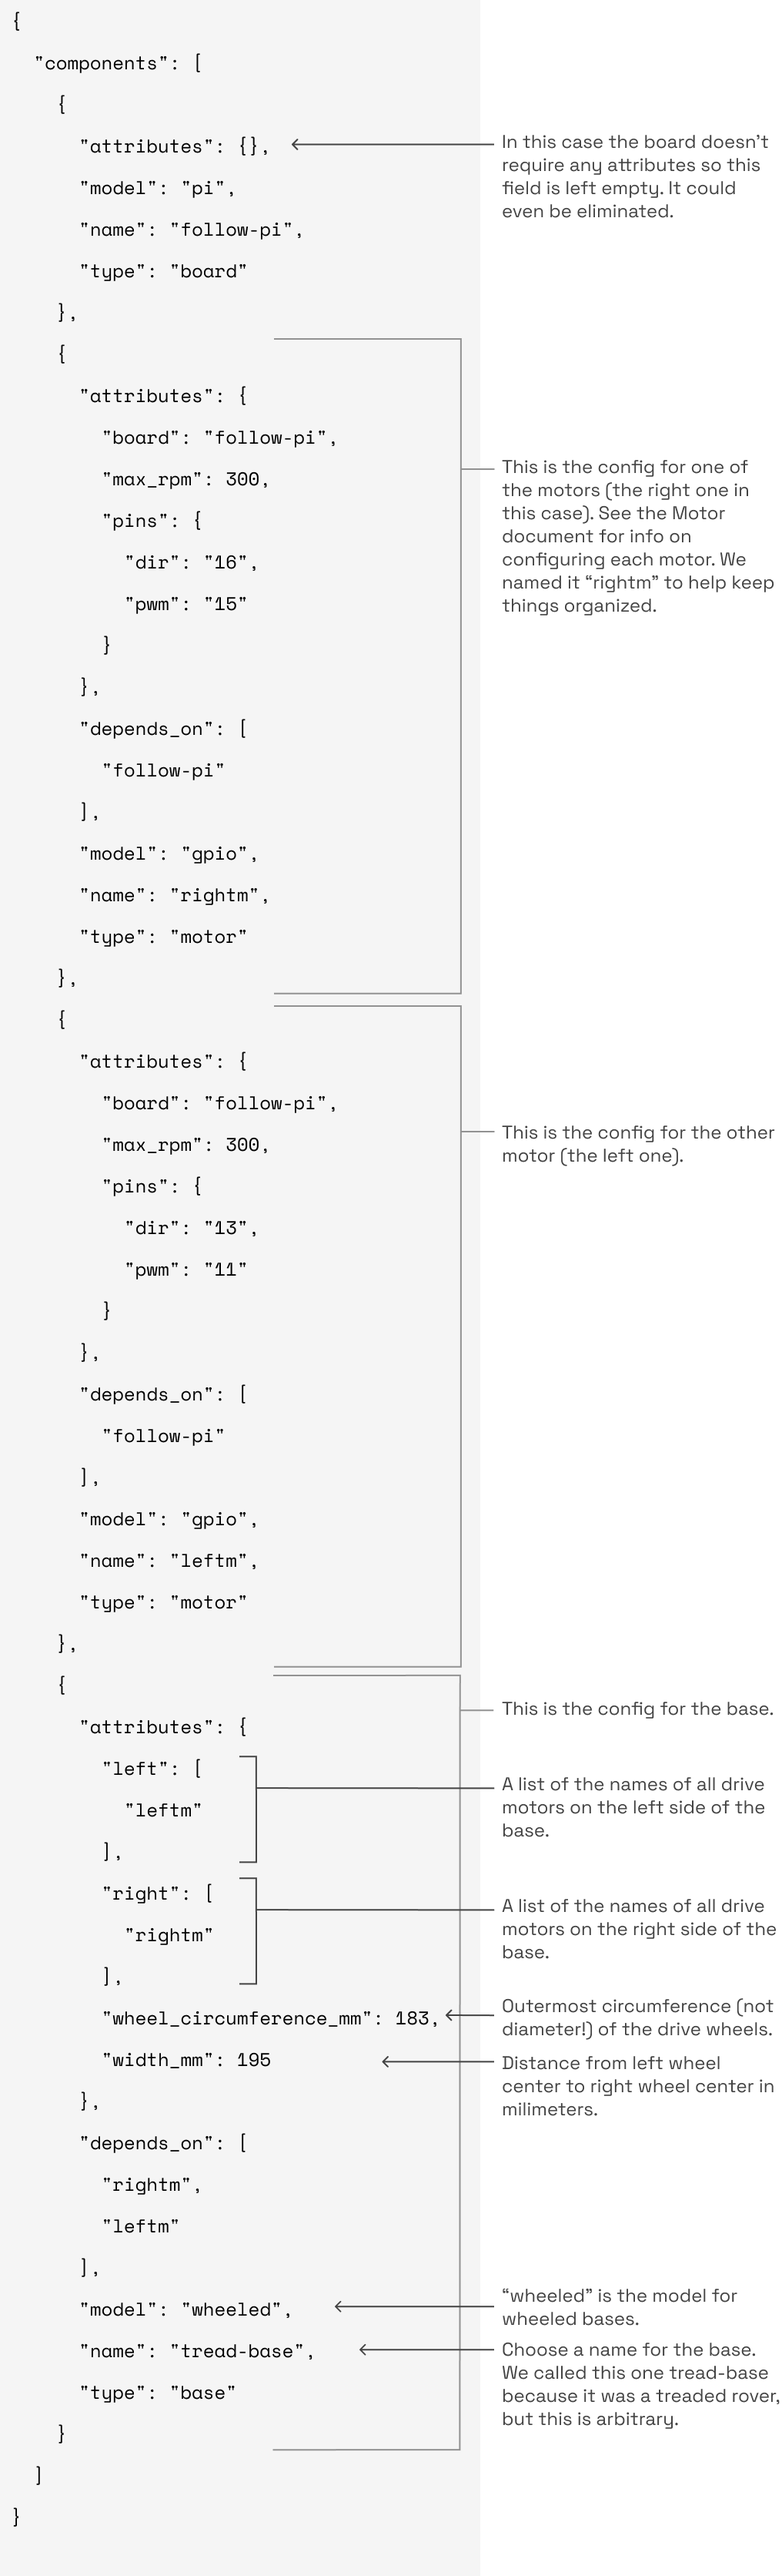
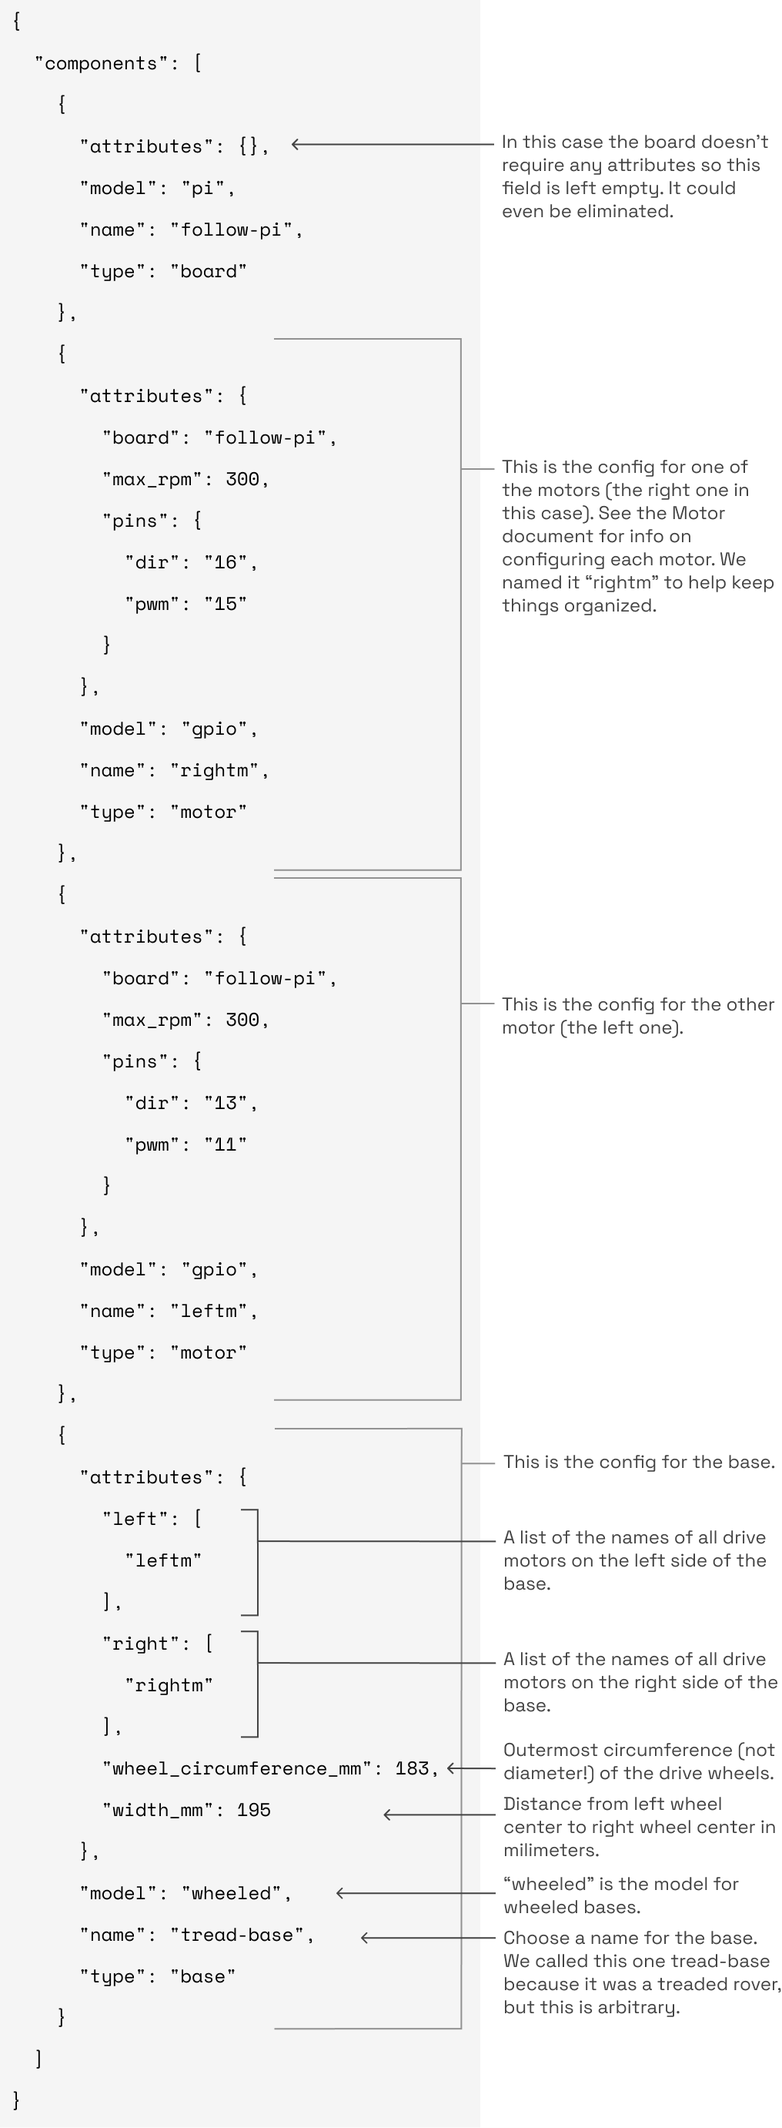
update base doc--remove depends on

diff --git a/docs/components/base.md b/docs/components/base.md
@@ -3,13 +3,13 @@ title: "Base Component"
 linkTitle: "Base"
 weight: 10
 type: "docs"
-description: "Explanation of base types, configuration, and usage in Viam."
+description: "Explanation of base configuration, and usage in Viam."
 # SMEs: Steve B
 ---
 
 Most robots with wheeled bases will comprise at least the following:
 
--   A `board` component that can run a Viam server instance. 
+-   A [board component](/components/board/) that can run a viam-server instance. 
 That is to say, a computing device with general purpose input/output (GPIO) pins such as a Raspberry Pi or other single-board computer with GPIO.
 
 -   Two or more motors with wheels attached
@@ -34,10 +34,13 @@ Note that this will vary greatly depending on choice of motors, motor drivers, p
 
 Configuring a base involves configuring the drive motors and ensuring the base attributes section contains the names of all motors that move the base right or left, respectively.
 Configure each motor according to its type. 
-You can find more information on wiring and configuring different types of motors under the [Motor Component](../motor/).
-The board controlling the base must also be configured.
+You can find more information on wiring and configuring different types of motors in the [motor topic](../motor/).
+The [board](/components/board/) controlling the base must also be configured.
 
 An example configuration file, including the board, motors, and base:
+
+{{< tabs name="Example Servo Config" >}}
+{{% tab name="Raw JSON" %}}
 
 ```json-viam
 {
@@ -57,9 +60,6 @@ An example configuration file, including the board, motors, and base:
           "pwm": "15"
         }
       },
-      "depends_on": [
-        "follow-pi"
-      ],
       "model": "gpio",
       "name": "rightm",
       "type": "motor"
@@ -73,9 +73,6 @@ An example configuration file, including the board, motors, and base:
           "pwm": "11"
         }
       },
-      "depends_on": [
-        "follow-pi"
-      ],
       "model": "gpio",
       "name": "leftm",
       "type": "motor"
@@ -91,10 +88,6 @@ An example configuration file, including the board, motors, and base:
         "wheel_circumference_mm": 183,
         "width_mm": 195
       },
-      "depends_on": [
-        "rightm",
-        "leftm"
-      ],
       "model": "wheeled",
       "name": "tread-base",
       "type": "base"
@@ -103,9 +96,13 @@ An example configuration file, including the board, motors, and base:
 }
 ```
 
-An explanatory view of the same config file:
+{{% /tab %}}
+{{< tab name="Annotated JSON" >}}
 
 <img src="../img/base/base-json.png" alt="An image of the JSON configuration file with annotations explaining some of the attributes."/>
+
+{{< /tab >}}
+{{< /tabs >}}
 
 ### Required Attributes
 <table>
@@ -151,11 +148,6 @@ An explanatory view of the same config file:
     <td><code>width_mm</code></td>
     <td>int</td>
     <td>Width of the base in millimeters. In other words, the distance between the approximate centers of the right and left wheels.</td>
-  </tr>
-  <tr>
-    <td><code>depends_on</code></td>
-    <td>array of strings</td>
-    <td>List the names of the right and left motors again. This is so the code will find the motors before it attempts to register the base, avoiding errors.</td>
   </tr>
 
 </tbody>
